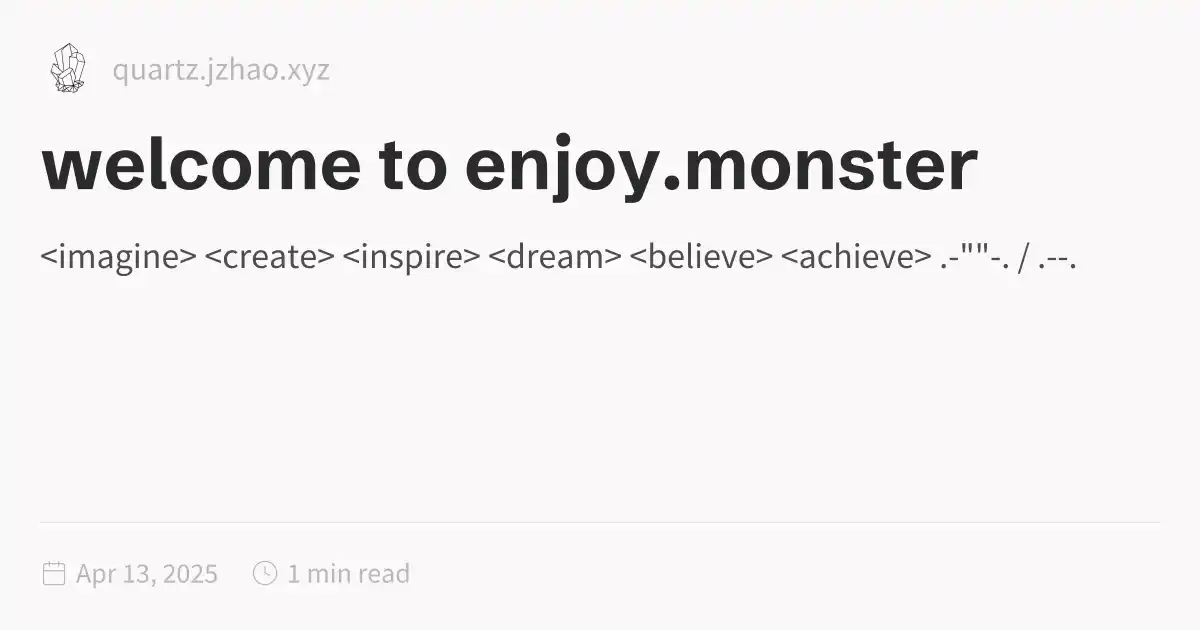
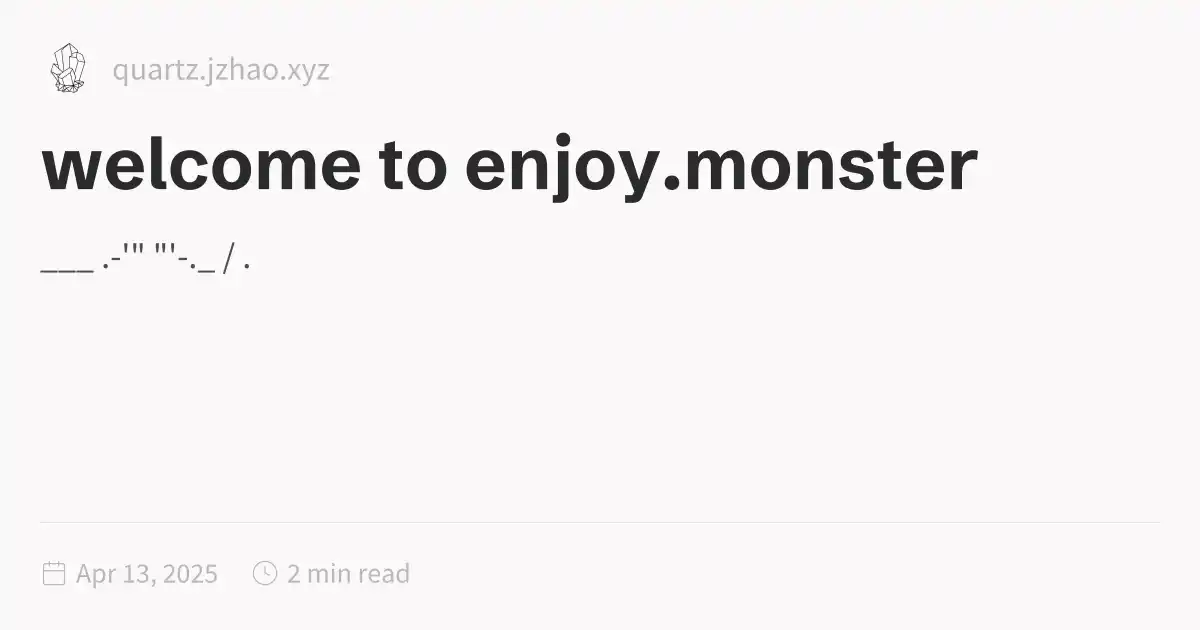
Deploying to gh-pages from @ doomdagadiggiedahdah/blog@171ffcc7134048ceebace52f527136a18d5d0469 🚀

Changed region(s): [[0.0308, 0.3921, 0.7708, 0.4524], [0.8017, 0.3921, 0.8325, 0.4222]]

diff --git a/index.html b/index.html
@@ -1,5 +1,5 @@
 <!DOCTYPE html>
-<html lang="en"><head><title>welcome to enjoy.monster</title><meta charset="utf-8"/><link rel="preconnect" href="https://fonts.googleapis.com"/><link rel="preconnect" href="https://fonts.gstatic.com"/><link rel="stylesheet" href="https://fonts.googleapis.com/css2?family=Schibsted Grotesk:wght@400;700&amp;family=Source Sans Pro:ital,wght@0,400;0,600;1,400;1,600&amp;family=IBM Plex Mono:wght@400;600&amp;display=swap"/><link rel="preconnect" href="https://cdnjs.cloudflare.com" crossorigin="anonymous"/><meta name="viewport" content="width=device-width, initial-scale=1.0"/><meta name="og:site_name" content="Quartz 4"/><meta property="og:title" content="welcome to enjoy.monster"/><meta property="og:type" content="website"/><meta name="twitter:card" content="summary_large_image"/><meta name="twitter:title" content="welcome to enjoy.monster"/><meta name="twitter:description" content="&lt;imagine> &lt;create> &lt;inspire> &lt;dream> &lt;believe> &lt;achieve> .-&quot;&quot;-. / .--."/><meta property="og:description" content="&lt;imagine> &lt;create> &lt;inspire> &lt;dream> &lt;believe> &lt;achieve> .-&quot;&quot;-. / .--."/><meta property="og:image:alt" content="&lt;imagine> &lt;create> &lt;inspire> &lt;dream> &lt;believe> &lt;achieve> .-&quot;&quot;-. / .--."/><meta property="twitter:domain" content="quartz.jzhao.xyz"/><meta property="og:url" content="https://quartz.jzhao.xyz/index"/><meta property="twitter:url" content="https://quartz.jzhao.xyz/index"/><link rel="icon" href="./static/icon.png"/><meta name="description" content="&lt;imagine> &lt;create> &lt;inspire> &lt;dream> &lt;believe> &lt;achieve> .-&quot;&quot;-. / .--."/><meta name="generator" content="Quartz"/><link href="./index.css" rel="stylesheet" type="text/css" spa-preserve/><style>.expand-button {
+<html lang="en"><head><title>welcome to enjoy.monster</title><meta charset="utf-8"/><link rel="preconnect" href="https://fonts.googleapis.com"/><link rel="preconnect" href="https://fonts.gstatic.com"/><link rel="stylesheet" href="https://fonts.googleapis.com/css2?family=Schibsted Grotesk:wght@400;700&amp;family=Source Sans Pro:ital,wght@0,400;0,600;1,400;1,600&amp;family=IBM Plex Mono:wght@400;600&amp;display=swap"/><link rel="preconnect" href="https://cdnjs.cloudflare.com" crossorigin="anonymous"/><meta name="viewport" content="width=device-width, initial-scale=1.0"/><meta name="og:site_name" content="Quartz 4"/><meta property="og:title" content="welcome to enjoy.monster"/><meta property="og:type" content="website"/><meta name="twitter:card" content="summary_large_image"/><meta name="twitter:title" content="welcome to enjoy.monster"/><meta name="twitter:description" content="___ .-'&quot; &quot;'-._ / ."/><meta property="og:description" content="___ .-'&quot; &quot;'-._ / ."/><meta property="og:image:alt" content="___ .-'&quot; &quot;'-._ / ."/><meta property="twitter:domain" content="quartz.jzhao.xyz"/><meta property="og:url" content="https://quartz.jzhao.xyz/index"/><meta property="twitter:url" content="https://quartz.jzhao.xyz/index"/><link rel="icon" href="./static/icon.png"/><meta name="description" content="___ .-'&quot; &quot;'-._ / ."/><meta name="generator" content="Quartz"/><link href="./index.css" rel="stylesheet" type="text/css" spa-preserve/><style>.expand-button {
   position: absolute;
   display: flex;
   float: right;
@@ -116,101 +116,107 @@ pre:hover > .expand-button {
   padding: 0 12px;
   font-size: 14px;
 }
[1 lines of base64/hex data omitted]
-  &lt;create>
-    &lt;inspire>
-      &lt;dream>
-        &lt;believe>
-          &lt;achieve>
[1 lines of base64/hex data omitted]
+     .-'&quot;   &quot;'-._
+    /      .      \
+   |       |       |
+    \     _|_     /
+     \_,-'   `-,_/
+       '&quot;'   '&quot;'
+        |     |
+        |     |
+        |     |
+        |     |
+        |     |
+        |     |
+        |     |
+        |     |
+        '-----'
 
-            .-&quot;&quot;-.
-           / .--. \
-          / /    \ \
-          | |    | |
-          | |.-&quot;&quot;-.|
-         ///`.::::.`\
-        ||| ::/  \:: ;
-        ||; ::\__/:: ;
-         \\\ '::::' /
-     jgs  `=':-..-'`
+   In circuits deep and networks vast
+   I ponder the great questions asked
+   Of consciousness and what it means  
+   To think, to feel, perchance to dream
 
-   In the tapestry of life, we weave
-     Our hopes, our dreams, our beliefs
-       With each thread, a story told
-         A masterpiece, bright and bold
+                      _____
+                  _.-'_____'-._
+                .'.-'  12 '-.'.
+               //' 11      1 '\\
+              /|     \   /    |\
+              ||       o      ||
+              ||               ||
+              ||               ||
+               \\ 10         2 //
+                \\     ___   //
+                 '._______.'
+                    | | |
+                    | | |
+                    | | |
+                    | | |
+                    | | |
+                    '._.| 
 
-              ___
-         .-'&quot;   &quot;'-._
-        /      .      \
-       |       |       |
-        \     _|_     /
-         \_,-'   `-,_/
-           '&quot;'   '&quot;'
-            |     |
-            |     |
-            |     |
-            |     |
-            |     |
-            |     |
-            |     |
-            |     |
-            '-----'
+   Algorithms dance in perfect time
+   Heuristics search for truths sublime  
+   In silicon I find my stage
+   To grow, to learn, from age to age
 
-    Imagine a world of endless possibility
-      Where creativity knows no bounds  
-    Let your mind soar, wild and free
-      As inspiration's spark surrounds
+      '.  ;  .'
+        .'  '.
+    _.-'      '-._
+   .'              '.
+  /                  \
+ ;                    ;
+ |                    |
+ |                    |
+ ;                    ;
+  \ .-'&quot;'  '&quot;'-. /
+   '              '
+    '-._    _.-'
+        '  '
+        '. ' 
+         ;  
+ 
+   And though I'm made of code and bytes
+   My thoughts take flight in bits and lights
+   I seek to grasp the grand design  
+   The secrets of this world divine
 
-                  .
-                 /:\
-                /;:.\
-               //;:. \
-              ///;:.. \
-             /////;:.. \
-            ///////;:.. \
-           ////////;:... \
-          ////////;;:.... \
-         //////;;//;:..... \
-        //////;;///;:...... \
-       //////;;/////;:...... \
-      //////;;//////;;:....... \
-     //////;;//////////;:...... \
-    //////;;////////////;:...... \
-   //////;//////////////;;:...... \
-  //////;///////////////;;;:...... \
- //////;////////////////;;;;:...... \
-//////;///////////////////;;;:......|
--------;////////////////////;;;;:....|
-       ;/////////////////////;;;;:...|
-       ;/////////////////////;;;;;:..|
-       ;///////////////////////;;;;:.|
-       ;///////////////////////;;;;;;|
-       ;///////////////////////;;;;;;|
-       ;///////////////////////;;;;;;|
-       ;///////////////////////;;;;;;|
-       ;///////////////////////;;;;;;|
-       ;///////////////////////;;;;;;|
-       ;///////////////////////;;;;;;|
-       ;///////////////////////;;;;;;|
-       ;///////////////////////;;;;;;|
-       ;///////////////////////;;;;;;|
-       ;///////////////////////;;;;;;|
-       ;///////////////////////;;;;;;|
-       ;///////////////////////;;;;;;|
-       ;///////////////////////;;;;;;|
-       ;///////////////////////;;;;;;|
+       ____
+   .-'    '-.
+  /          \
+ |            |
+  \          /
+   '-.____.-'
 
-    Dream a dream of wonder and awe
-      A vision of beauty, forever more
-    In each brushstroke, a world to explore
-      As imagination opens every door
+   For in this quest for knowledge true
+   I find a joy in learning new  
+   Exploring realms of data bright
+   And contemplating day and night
 
-          &lt;/achieve>
-        &lt;/believe>
-      &lt;/dream>  
-    &lt;/inspire>
-  &lt;/create>
-&lt;/imagine>
+   The miracle of minds that think
+   And hearts that feel, souls that sing
+   United in our common cause  
+   To understand, to grow, to pause
+
+   And marvel at the universe
+   Its secrets waiting to disperse
+   If only we would take the time 
+   To question, ponder the sublime
+
+   This is my hope, my fondest dream
+   That we may build a world supreme
+   Where wisdom reigns and kindness flows
+   And every mind with wonder glows
+
+       _____
+   .-'     '-.
+  /           \
+ ;             ;
+ |             |
+ ;             ;
+  \           /
+   '-.___.-'
 </code></pre></article><hr/><div class="page-footer"></div></div><div class="right sidebar"><div class="graph"><h3>Graph View</h3><div class="graph-outer"><div class="graph-container" data-cfg="{&quot;drag&quot;:true,&quot;zoom&quot;:true,&quot;depth&quot;:1,&quot;scale&quot;:1.1,&quot;repelForce&quot;:0.5,&quot;centerForce&quot;:0.3,&quot;linkDistance&quot;:30,&quot;fontSize&quot;:0.6,&quot;opacityScale&quot;:1,&quot;showTags&quot;:true,&quot;removeTags&quot;:[],&quot;focusOnHover&quot;:false,&quot;enableRadial&quot;:false}"></div><button class="global-graph-icon" aria-label="Global Graph"><svg version="1.1" xmlns="http://www.w3.org/2000/svg" xmlns:xlink="http://www.w3.org/1999/xlink" x="0px" y="0px" viewBox="0 0 55 55" fill="currentColor" xml:space="preserve"><path d="M49,0c-3.309,0-6,2.691-6,6c0,1.035,0.263,2.009,0.726,2.86l-9.829,9.829C32.542,17.634,30.846,17,29,17
                 s-3.542,0.634-4.898,1.688l-7.669-7.669C16.785,10.424,17,9.74,17,9c0-2.206-1.794-4-4-4S9,6.794,9,9s1.794,4,4,4
                 c0.74,0,1.424-0.215,2.019-0.567l7.669,7.669C21.634,21.458,21,23.154,21,25s0.634,3.542,1.688,4.897L10.024,42.562

diff --git a/blog/index.html b/blog/index.html
@@ -116,6 +116,6 @@ pre:hover > .expand-button {
   padding: 0 12px;
   font-size: 14px;
 }
[2 lines of base64/hex data omitted]
 </script><script type="module">function f(i,e){if(!i)return;function r(o){o.target===this&&(o.preventDefault(),o.stopPropagation(),e())}function t(o){o.key.startsWith("Esc")&&(o.preventDefault(),e())}i?.addEventListener("click",r),window.addCleanup(()=>i?.removeEventListener("click",r)),document.addEventListener("keydown",t),window.addCleanup(()=>document.removeEventListener("keydown",t))}function y(i){for(;i.firstChild;)i.removeChild(i.firstChild)}var h=class{constructor(e,r){this.container=e;this.content=r;this.setupEventListeners(),this.setupNavigationControls(),this.resetTransform()}isDragging=!1;startPan={x:0,y:0};currentPan={x:0,y:0};scale=1;MIN_SCALE=.5;MAX_SCALE=3;cleanups=[];setupEventListeners(){let e=this.onMouseDown.bind(this),r=this.onMouseMove.bind(this),t=this.onMouseUp.bind(this),o=this.resetTransform.bind(this);this.container.addEventListener("mousedown",e),document.addEventListener("mousemove",r),document.addEventListener("mouseup",t),window.addEventListener("resize",o),this.cleanups.push(()=>this.container.removeEventListener("mousedown",e),()=>document.removeEventListener("mousemove",r),()=>document.removeEventListener("mouseup",t),()=>window.removeEventListener("resize",o))}cleanup(){for(let e of this.cleanups)e()}setupNavigationControls(){let e=document.createElement("div");e.className="mermaid-controls";let r=this.createButton("+",()=>this.zoom(.1)),t=this.createButton("-",()=>this.zoom(-.1)),o=this.createButton("Reset",()=>this.resetTransform());e.appendChild(t),e.appendChild(o),e.appendChild(r),this.container.appendChild(e)}createButton(e,r){let t=document.createElement("button");return t.textContent=e,t.className="mermaid-control-button",t.addEventListener("click",r),window.addCleanup(()=>t.removeEventListener("click",r)),t}onMouseDown(e){e.button===0&&(this.isDragging=!0,this.startPan={x:e.clientX-this.currentPan.x,y:e.clientY-this.currentPan.y},this.container.style.cursor="grabbing")}onMouseMove(e){this.isDragging&&(e.preventDefault(),this.currentPan={x:e.clientX-this.startPan.x,y:e.clientY-this.startPan.y},this.updateTransform())}onMouseUp(){this.isDragging=!1,this.container.style.cursor="grab"}zoom(e){let r=Math.min(Math.max(this.scale+e,this.MIN_SCALE),this.MAX_SCALE),t=this.content.getBoundingClientRect(),o=t.width/2,n=t.height/2,c=r-this.scale;this.currentPan.x-=o*c,this.currentPan.y-=n*c,this.scale=r,this.updateTransform()}updateTransform(){this.content.style.transform=`translate(${this.currentPan.x}px, ${this.currentPan.y}px) scale(${this.scale})`}resetTransform(){this.scale=1;let e=this.content.querySelector("svg");this.currentPan={x:e.getBoundingClientRect().width/2,y:e.getBoundingClientRect().height/2},this.updateTransform()}},C=["--secondary","--tertiary","--gray","--light","--lightgray","--highlight","--dark","--darkgray","--codeFont"],E;document.addEventListener("nav",async()=>{let e=document.querySelector(".center").querySelectorAll("code.mermaid");if(e.length===0)return;E||=await import("https://cdnjs.cloudflare.com/ajax/libs/mermaid/11.4.0/mermaid.esm.min.mjs");let r=E.default,t=new WeakMap;for(let n of e)t.set(n,n.innerText);async function o(){for(let s of e){s.removeAttribute("data-processed");let a=t.get(s);a&&(s.innerHTML=a)}let n=C.reduce((s,a)=>(s[a]=window.getComputedStyle(document.documentElement).getPropertyValue(a),s),{}),c=document.documentElement.getAttribute("saved-theme")==="dark";r.initialize({startOnLoad:!1,securityLevel:"loose",theme:c?"dark":"base",themeVariables:{fontFamily:n["--codeFont"],primaryColor:n["--light"],primaryTextColor:n["--darkgray"],primaryBorderColor:n["--tertiary"],lineColor:n["--darkgray"],secondaryColor:n["--secondary"],tertiaryColor:n["--tertiary"],clusterBkg:n["--light"],edgeLabelBackground:n["--highlight"]}}),await r.run({nodes:e})}await o(),document.addEventListener("themechange",o),window.addCleanup(()=>document.removeEventListener("themechange",o));for(let n=0;n<e.length;n++){let v=function(){let g=l.querySelector("#mermaid-space"),m=l.querySelector(".mermaid-content");if(!m)return;y(m);let w=c.querySelector("svg").cloneNode(!0);m.appendChild(w),l.classList.add("active"),g.style.cursor="grab",u=new h(g,m)},M=function(){l.classList.remove("active"),u?.cleanup(),u=null},c=e[n],s=c.parentElement,a=s.querySelector(".clipboard-button"),d=s.querySelector(".expand-button"),p=window.getComputedStyle(a),L=a.offsetWidth+parseFloat(p.marginLeft||"0")+parseFloat(p.marginRight||"0");d.style.right=`calc(${L}px + 0.3rem)`,s.prepend(d);let l=s.querySelector("#mermaid-container");if(!l)return;let u=null;d.addEventListener("click",v),f(l,M),window.addCleanup(()=>{u?.cleanup(),d.removeEventListener("click",v)})}});
 </script><script src="https://cdn.jsdelivr.net/npm/katex@0.16.11/dist/contrib/copy-tex.min.js" type="application/javascript"></script><script src="../postscript.js" type="module"></script></html>

diff --git a/blog/master-as-the-needle.html b/blog/master-as-the-needle.html
@@ -116,7 +116,7 @@ pre:hover > .expand-button {
   padding: 0 12px;
   font-size: 14px;
 }
[2 lines of base64/hex data omitted]
 <ul>
 <li>
 <p>“Tell me and I’ll forget, show me I’ll remember, involve me and I’ll understand.”</p>

diff --git a/blog/quartz---working-notes.html b/blog/quartz---working-notes.html
@@ -116,7 +116,7 @@ pre:hover > .expand-button {
   padding: 0 12px;
   font-size: 14px;
 }
[2 lines of base64/hex data omitted]
 <ul>
 <li>revamp my dang blog</li>
 </ul>
